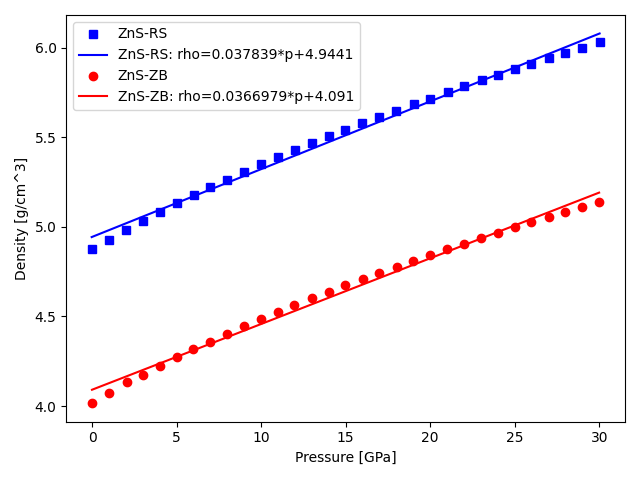
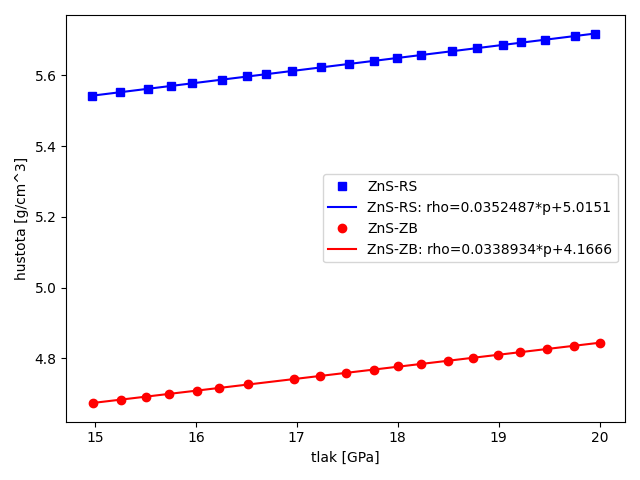
Plotting scripts modified. Phonons caltulation modified.

diff --git a/uloha-2/plot.density.py b/uloha-2/plot.density.py
@@ -39,9 +39,9 @@ def get_rho_p(folder):
 line_param = []
 
 # plot two lines for each phase
-for color_point, color_line, folder in [("bs", "b", "../vc-relax-ZnS-RS"), 
-                                        ("ro", "r", "../vc-relax-ZnS-ZB")]:
-    label = folder[-6:]
+for color_point, color_line, folder in [("bs", "b", "../vc-relax-ZnS-RS-around-trans"), 
+                                        ("ro", "r", "../vc-relax-ZnS-ZB-around-trans")]:
+    label = folder[12:18]
     prho = get_rho_p(folder)
     
     p = prho[:,0]/10    # GPa
@@ -63,8 +63,8 @@ for color_point, color_line, folder in [("bs", "b", "../vc-relax-ZnS-RS"),
                 color_line,
                 label="{}: rho={}*p+{}".format(label, slope.round(7), intercept.round(4)))
             
-plt.xlabel('Pressure [GPa]')
-plt.ylabel('Density [g/cm^3]')
+plt.xlabel('tlak [GPa]')
+plt.ylabel('hustota [g/cm^3]')
 plt.legend()
 plt.tight_layout()
 plt.savefig("density-vs-pressure.png")
@@ -85,8 +85,8 @@ plt.plot(   p_calc, rho_calc,
             'blue',
             label="rel_rho={}*p+{}".format(slope.round(8), intercept.round(5)))
             
-plt.xlabel('Pressure [GPa]')
-plt.ylabel('Relative density')
+plt.xlabel('tlak [GPa]')
+plt.ylabel('relatívna hustota')
 plt.legend()
 plt.tight_layout()
 plt.savefig("rel-density-vs-pressure.png")

diff --git a/uloha-1/plot.enthalpy.py b/uloha-1/plot.enthalpy.py
@@ -37,10 +37,10 @@ def get_H_p(folder):
 line_param = []
 
 # plot two lines for each phase
-#for color_point, color_line, folder in [("bs", "b", "../vc-relax-ZnS-RS-around-trans"), 
-#										("ro", "r", "../vc-relax-ZnS-ZB-around-trans")]:
-for color_point, color_line, folder in [("bs", "b", "../vc-relax-ZnS-RS"), 
-										("ro", "r", "../vc-relax-ZnS-ZB")]:
+for color_point, color_line, folder in [("bs", "b", "../vc-relax-ZnS-RS-around-trans"), 
+										("ro", "r", "../vc-relax-ZnS-ZB-around-trans")]:
+#for color_point, color_line, folder in [("bs", "b", "../vc-relax-ZnS-RS"), 
+#										("ro", "r", "../vc-relax-ZnS-ZB")]:
 	label = folder[12:18]
 	print(label)
 	pH = get_H_p(folder)
@@ -65,8 +65,8 @@ for color_point, color_line, folder in [("bs", "b", "../vc-relax-ZnS-RS"),
 				color_line,
 				label="{}: H={}*p{}".format(label, slope.round(7), intercept.round(4)))
 
-plt.xlabel('Pressure [GPa]')
-plt.ylabel('Enthalpy [Ry]')
+plt.xlabel('tlak [GPa]')
+plt.ylabel('entalpia [Ry]')
 plt.legend()
 plt.tight_layout()
 plt.savefig("enthalpy-vs-pressure.png")

diff --git a/uloha-4/plot.ZnS-RS.bands.py b/uloha-4/plot.ZnS-RS.bands.py
@@ -62,10 +62,9 @@ def read_bnd(file_name):
 
 def plot(bands, x, x_label_pos, fermi):
     # setup plot
-    font = {'family' : 'serif',
-            'size'   : 15}
-    plt.rc('font', **font)
-    plt.rc('text', usetex=True)
+    #font = {'family' : 'DejaVu Sans',
+    #        'size'   : 12}
+    #plt.rc('font', **font)
     plt.figure(num=None, figsize=(6.4, 4.8), dpi=600, facecolor='w', edgecolor='k')
 
     # calculate plot bounds
@@ -85,7 +84,7 @@ def plot(bands, x, x_label_pos, fermi):
     # add information to graph
     plt.xlim(xaxis)
     plt.ylim(yaxis)
-    plt.xlabel(r'k-path')
+    #plt.xlabel(r'k-path')
     plt.ylabel(r'$E-E_F$ [eV]')
     plt.savefig('bands-ZnS-RS.png')
 

diff --git a/uloha-4/plot.ZnS-ZB.bands.py b/uloha-4/plot.ZnS-ZB.bands.py
@@ -62,10 +62,9 @@ def read_bnd(file_name):
 
 def plot(bands, x, x_label_pos, fermi):
     # setup plot
-    font = {'family' : 'serif',
-            'size'   : 15}
-    plt.rc('font', **font)
-    plt.rc('text', usetex=True)
+    #font = {'family' : 'DejaVu Sans',
+    #        'size'   : 12}
+    #plt.rc('font', **font)
     plt.figure(num=None, figsize=(6.4, 4.8), dpi=600, facecolor='w', edgecolor='k')
 
     # calculate plot bounds
@@ -85,7 +84,7 @@ def plot(bands, x, x_label_pos, fermi):
     # add information to graph
     plt.xlim(xaxis)
     plt.ylim(yaxis)
-    plt.xlabel(r'k-path')
+    #plt.xlabel(r'k-path')
     plt.ylabel(r'$E-E_F$ [eV]')
     plt.savefig('bands-ZnS-ZB.png')
 

diff --git a/uloha-4/plot.ZnS-RS.dos.py b/uloha-4/plot.ZnS-RS.dos.py
@@ -8,10 +8,9 @@ import numpy as np
 import matplotlib.pyplot as plt
 
 # LaTeX text rendering
-font = {'family' : 'serif',
-        'size'   : 15}
-plt.rc('font', **font)
-plt.rc('text', usetex=True)
+#font = {'family' : 'DejaVu Sans',
+#        'size'   : 12}
+#plt.rc('font', **font)
 plt.figure(num=None, figsize=(6.4, 4.8), dpi=600, facecolor='w', edgecolor='k')
 
 # load DOS data
@@ -32,5 +31,5 @@ plt.plot(energy-E_Fermi,dos,color='black',lw=0.2)
 ylim = plt.ylim()
 plt.vlines(0,ylim[0],ylim[1],colors='#66ccff',linestyles='solid',lw = 0.2)
 plt.xlabel(r'$E-E_F$ [eV]')
-plt.ylabel(r'density of states')
+plt.ylabel(r'hustota stavov')
 plt.savefig("dos-ZnS-RS.png")

diff --git a/uloha-4/plot.ZnS-ZB.dos.py b/uloha-4/plot.ZnS-ZB.dos.py
@@ -8,10 +8,9 @@ import numpy as np
 import matplotlib.pyplot as plt
 
 # LaTeX text rendering
-font = {'family' : 'serif',
-        'size'   : 15}
-plt.rc('font', **font)
-plt.rc('text', usetex=True)
+#font = {'family' : 'serif',
+#        'size'   : 12}
+#plt.rc('font', **font)
 plt.figure(num=None, figsize=(6.4, 4.8), dpi=600, facecolor='w', edgecolor='k')
 
 # load DOS data
@@ -32,5 +31,5 @@ plt.plot(energy-E_Fermi,dos,color='black',lw=0.2)
 ylim = plt.ylim()
 plt.vlines(0,ylim[0],ylim[1],colors='#66ccff',linestyles='solid',lw = 0.2)
 plt.xlabel(r'$E-E_F$ [eV]')
-plt.ylabel(r'density of states')
+plt.ylabel(r'hustota stavov')
 plt.savefig("dos-ZnS-ZB.png")

diff --git a/uloha-3/plot.bulk-fit-ZnS-RS.vc-relax.py b/uloha-3/plot.bulk-fit-ZnS-RS.vc-relax.py
@@ -1,5 +1,3 @@
-#!/usr/bin/env python
-
 import matplotlib
 matplotlib.use('Agg')
 
@@ -46,10 +44,10 @@ v_calc = np.linspace(V[0],V[-1],101)
 p_calc = eos(v_calc,*popt)
 
 plt.plot(p,V,'bo',label='vc-relax-ZnS-RS data')
-plt.plot(p_calc,v_calc,'r-',label='fit: B={:.3f}, B\'={:.3f}'.format(*popt))
+plt.plot(p_calc,v_calc,'r-',label='fit: B={:.3f} GPa, B\'={:.3f}'.format(*popt))
 
-plt.xlabel('Pressure [GPa]')
-plt.ylabel('Volume [A^3]')
+plt.xlabel('tlak [GPa]')
+plt.ylabel('objem [A^3]')
 plt.legend()
 plt.tight_layout()
 plt.savefig("bulk-fit-ZnS-RS.png")

diff --git a/uloha-0/plot.kpoints-test-ZnS-RS.py b/uloha-0/plot.kpoints-test-ZnS-RS.py
@@ -1,8 +1,3 @@
-#!/usr/bin/env python
-
-import matplotlib
-matplotlib.use('Agg')
-
 import os
 import numpy as np
 from matplotlib import pyplot as plt
@@ -28,7 +23,7 @@ results = sorted(results, key=lambda x: x[0])
 results = np.array(results).T
 
 plt.plot(results[0],results[1],'o-',linewidth=2)
-plt.xlabel('N in (N,N,N) Monkhorst-Pack grid')
-plt.ylabel('Structure energy [Ry]')
+plt.xlabel('N v (N,N,N) mriežke')
+plt.ylabel('energia [Ry]')
 plt.tight_layout()
 plt.savefig("kpoints-ZnS-RS.png")

diff --git a/uloha-0/plot.kpoints-test-ZnS-ZB.py b/uloha-0/plot.kpoints-test-ZnS-ZB.py
@@ -1,8 +1,3 @@
-#!/usr/bin/env python
-
-import matplotlib
-matplotlib.use('Agg')
-
 import os
 import numpy as np
 from matplotlib import pyplot as plt
@@ -28,7 +23,7 @@ results = sorted(results, key=lambda x: x[0])
 results = np.array(results).T
 
 plt.plot(results[0],results[1],'o-',linewidth=2)
-plt.xlabel('N in (N,N,N) Monkhorst-Pack grid')
-plt.ylabel('Structure energy [Ry]')
+plt.xlabel('N v (N,N,N) mriežke')
+plt.ylabel('energia [Ry]')
 plt.tight_layout()
 plt.savefig("kpoints-ZnS-ZB.png")

diff --git a/uloha-3/plot.bulk-fit-ZnS-ZB.vc-relax.py b/uloha-3/plot.bulk-fit-ZnS-ZB.vc-relax.py
@@ -46,9 +46,9 @@ v_calc = np.linspace(V[0],V[-1],101)
 p_calc = eos(v_calc,*popt)
 
 plt.plot(p,V,'bo',label='vc-relax-ZnS-ZB data')
-plt.plot(p_calc,v_calc,'r-',label='fit: B={:.3f}, B\'={:.3f}'.format(*popt))
-plt.xlabel('Pressure [GPa]')
-plt.ylabel('Volume [A^3]')
+plt.plot(p_calc,v_calc,'r-',label='fit: B={:.3f} GPa, B\'={:.3f}'.format(*popt))
+plt.xlabel('tlak [GPa]')
+plt.ylabel('objem [A^3]')
 plt.legend()
 plt.tight_layout()
 plt.savefig("bulk-fit-ZnS-ZB.png")

diff --git a/uloha-0/plot.encut-test-ZnS-RS.py b/uloha-0/plot.encut-test-ZnS-RS.py
@@ -1,8 +1,3 @@
-#!/usr/bin/env python
-
-import matplotlib
-matplotlib.use('Agg')
-
 import os
 import numpy as np
 from matplotlib import pyplot as plt
@@ -28,7 +23,7 @@ results = sorted(results, key=lambda x: x[0])
 results = np.array(results).T
 
 plt.plot(results[0],results[1],'o-',linewidth=2)
-plt.xlabel('Encut [Ry]')
-plt.ylabel('Structure energy [Ry]')
+plt.xlabel('ecutwfc [Ry]')
+plt.ylabel('energia [Ry]')
 plt.tight_layout()
 plt.savefig("encut-ZnS-RS.png")

diff --git a/uloha-0/plot.encut-test-ZnS-ZB.py b/uloha-0/plot.encut-test-ZnS-ZB.py
@@ -1,8 +1,3 @@
-#!/usr/bin/env python
-
-import matplotlib
-matplotlib.use('Agg')
-
 import os
 import numpy as np
 from matplotlib import pyplot as plt
@@ -28,7 +23,7 @@ results = sorted(results, key=lambda x: x[0])
 results = np.array(results).T
 
 plt.plot(results[0],results[1],'o-',linewidth=2)
-plt.xlabel('Encut [Ry]')
-plt.ylabel('Structure energy [Ry]')
+plt.xlabel('ecutwfc [Ry]')
+plt.ylabel('energia [Ry]')
 plt.tight_layout()
 plt.savefig("encut-ZnS-ZB.png")
